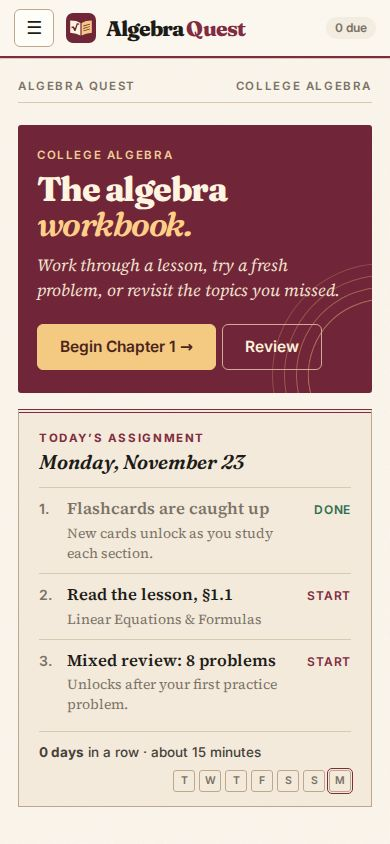
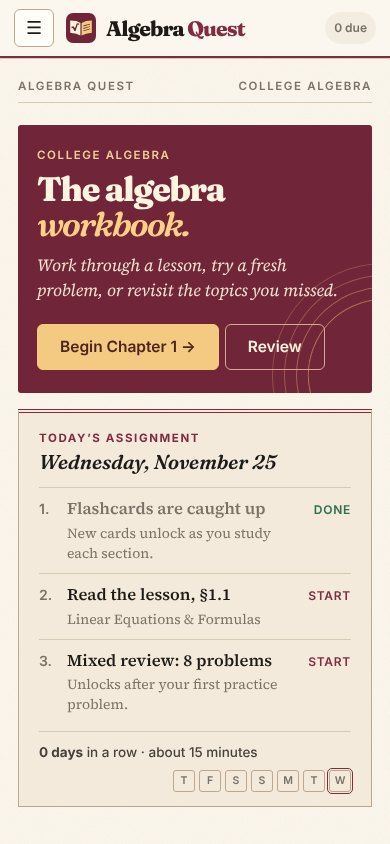
Tidy generated math (no "+ -3", "1x" or "+ 0x"), fix "subtract −11" in worked answers, and refresh the README screenshots

diff --git a/js/engine.js b/js/engine.js
@@ -509,8 +509,19 @@ function logCount(s) { return (normalize(s).match(/log|ln/g) || []).length; }
 
 /* ---------------- math text renderer ---------------- */
 const escHtml = s => String(s).replace(/[&<>"']/g, c => ({ '&': '&amp;', '<': '&lt;', '>': '&gt;', '"': '&quot;', "'": '&#39;' }[c]));
+/* tidy generated math before it's shown: "x^2 + 0x + -64" → "x^2 − 64", "1x" → "x", "y = x + 0" → "y = x".
+   Only clean-ups a textbook would make; substituted numbers like "3 - 0" or "{1 + 0|2}" are left as worked. */
+function tidy(t) {
+  return String(t)
+    .replace(/(\s)[+-] 0[a-z](\^\d+|\^\([^()]*\))?(?![\w.(])/g, '')                 // a 0x term
+    .replace(/([a-z\]]|\)(?:\^\d+)?) [+-] 0(?![\d.\w(])(?=\s*(?:$|[|),]))/g, '$1')   // "x + 0" at the end of an expression
+    .replace(/\+ ?-(?=[\d.A-Za-z(√{])/g, '- ')                                       // "+ -3" → "- 3"
+    .replace(/(^|[\s(=])- ?-(?=\d)/g, '$1+ ')                                         // "- -3" → "+ 3"
+    .replace(/(^|[^\d.^\w])1(?=[xyi](?![a-z]))/g, '$1')                               // "1x" → "x", "-1x" → "-x"
+    .replace(/(=\s*-?)1(?=\|)/g, '$1');                                              // "y = 1|x|" → "y = |x|"
+}
 function pretty(src) {
-  let s = escHtml(src);
+  let s = escHtml(tidy(src));
   let prev;
   do { prev = s; s = s.replace(/\{([^{}|]*)\|([^{}]*)\}/g, '<span class="fr"><span class="n">$1</span><span class="d">$2</span></span>'); } while (s !== prev);
   s = s.replace(/_\(([^()]*)\)/g, '<sub>$1</sub>').replace(/_([A-Za-z0-9.]+)/g, '<sub>$1</sub>');
@@ -533,7 +544,7 @@ Object.assign(AQ, {
   normalize, compile, evalStr, evalReal, tryEval, calculate,
   eqCheck, simpRad, radStr, money, OK, NO, READ_FAIL, numCheck, setCheck, ptCheck, exprCheck, complexCheck, complexSetCheck,
   parseIntervals, ivCheck, ivStr, noneAllowedIv, choiceCheck, multiCheck, logFormCheck, expFormCheck, logAtomic, logCount,
-  escHtml, pretty, H
+  escHtml, tidy, pretty, H
 });
 if (typeof module !== 'undefined' && module.exports) module.exports = AQ;
 })(typeof window !== 'undefined' ? window : globalThis);

diff --git a/js/gens1.js b/js/gens1.js
@@ -38,9 +38,9 @@ G['linear-eq'] = function () {
       fields: one('x =', AQ.numCheck(fval(x0), { roundedDecimal: true }), '~x = ' + fq(x0) + '~', 'fraction or decimal (round to 3+ places)'),
       hints: [`Expand each parenthesis. On the right, multiply both terms inside by −${d}. What sign does the constant have?`,
         'Combine like terms on each side separately before you move anything across the equals sign.',
-        `Add ${d}x to both sides. Once you have the x terms together, which coefficient will you divide by?`],
+        `Add ${d === 1 ? 'x' : d + 'x'} to both sides. Once you have the x terms together, which coefficient will you divide by?`],
       solution: [`Distribute: ~${poly([a, a * b + c])} = ${e - d * f} - ${d}x~`,
-        `Add ~${d}x~ to both sides and subtract ~${a * b + c}~: ~${s}x = ${k}~`,
+        (a * b + c === 0 ? `Add ~${d}x~ to both sides: ~${s}x = ${k}~` : `Add ~${d}x~ to both sides and ${a * b + c < 0 ? 'add' : 'subtract'} ~${Math.abs(a * b + c)}~: ~${s}x = ${k}~`), // never "subtract −11"
         `Divide by ${s}: ~x = ${fq(x0)}~`]
     };
   }

diff --git a/sw.js b/sw.js
@@ -2,7 +2,7 @@
    Pages are network-first and skip the browser's HTTP cache, so updates show up right away; fonts and icons
    (versioned URLs) are cache-first. Only this site's own files are handled. */
 const CACHE_PREFIX = 'algebra-quest-v';
-const CACHE = CACHE_PREFIX + '16';
+const CACHE = CACHE_PREFIX + '17';
 const FONTS = ['fraunces-latin-600-normal', 'fraunces-latin-600-italic', 'fraunces-latin-800-normal',
   'source-serif-4-latin-400-normal', 'source-serif-4-latin-400-italic', 'source-serif-4-latin-600-normal', 'source-serif-4-latin-700-normal',
   'inter-latin-400-normal', 'inter-latin-500-normal', 'inter-latin-600-normal', 'inter-latin-700-normal',

diff --git a/css/style.css b/css/style.css
@@ -555,6 +555,7 @@ table.synth tr.rule td.kcell{border-top:0}
 .tryit > .note{margin:0 0 12px}
 .pgoal{flex-basis:100%;display:flex;align-items:center;gap:10px;flex-wrap:wrap;font:500 14px var(--ui);padding:2px 0 6px}
 .pgoal.done{color:var(--good,inherit)}
+.pgoal .note{margin:0;line-height:1}
 .pgbar{flex:1;min-width:80px;max-width:220px;height:7px;border-radius:4px;background:var(--line);overflow:hidden}.pgbar i{display:block;height:100%;background:var(--c,var(--gold))}
 
 /* bigger touch targets on phones */

diff --git a/README.md b/README.md
@@ -67,6 +67,11 @@ The **10 interactive labs** let you build intuition by playing:
 
 **Your turn.** Right after the worked examples, before the section summary, every lesson hands you one fresh problem of the same kind, with the same hints and feedback as practice. You try the method while it's new instead of just reading it, and **Try another one** gives you more.
 
+<p align="center">
+  <img src="docs/your-turn.jpg" alt="A Your turn problem at the end of the linear equations lesson, before the summary" width="560">
+  <img src="docs/phone-your-turn.jpg" alt="Phone: the Your turn problem" width="200">
+</p>
+
 ### Remember: flashcards, Recall mode and section summaries
 **Flashcards.** Each quest has its own deck (134 cards in all) of the facts and methods you need to know cold: formulas, rules, "what's the first step when…". Say your answer before you flip, then rate yourself honestly:
 
@@ -99,7 +104,7 @@ Every practice problem is generated fresh, so you can't memorize answers, only m
 - **Stars.** A quest earns ⭐ at 3, 8 and 15 problems solved on the first try without hints. The top of the practice page shows how close you are to the next star, and once the first one is earned it links to the next section.
 
 <p>
-  <img src="docs/practice.jpg" alt="An algebra practice problem with feedback on an incorrect entry" width="420">
+  <img src="docs/practice.jpg" alt="An algebra practice problem with the star goal above it and feedback on an unreadable entry" width="420">
   <img src="docs/worked-answer.jpg" alt="The worked answer revealed step by step" width="420">
 </p>
 
